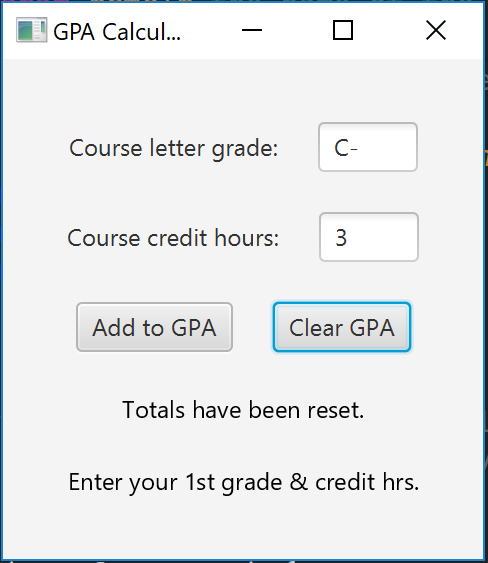
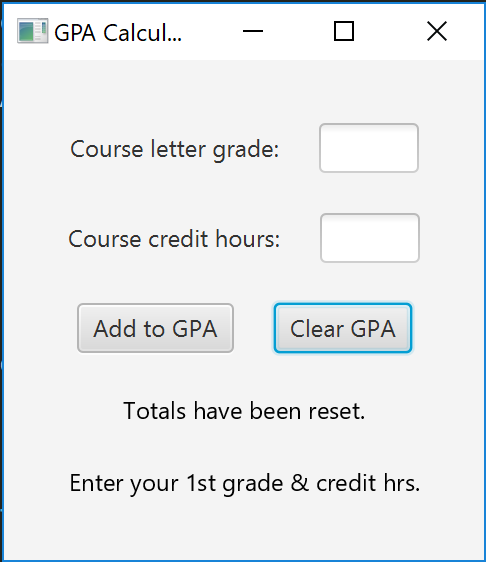
final steps, not important

diff --git a/Ticket/Ticket.java b/Ticket/Ticket.java
@@ -69,14 +69,14 @@ public class Ticket extends Application {
 
 		boardGroupNumber = new Text("Welcome to Flights R Us!");
 		costOfFlight = new Text("Enter your ticket information");
-
+		// the arrangement of the scene
 		FlowPane pane = new FlowPane(passengerNameText, passengerName, checkedBagsText, checkedBags, 
 			drinksText, drinks, economy, firstClass, reset, boardGroupNumber, costOfFlight);
 
 		pane.setAlignment(Pos.CENTER);
 		pane.setHgap(20);
 		pane.setVgap(20);
-
+		// length/width of the scene
 		Scene scene = new Scene(pane, 270, 300);
 
 		primaryStage.setScene(scene);
@@ -89,14 +89,18 @@ public class Ticket extends Application {
 		@param event button press event
 	*/
 	public void processCost(ActionEvent event) {
+		// variables equalling the various text fields
 		nameInput = passengerName.getText();
 		bagsInput = Integer.parseInt(checkedBags.getText());
 		drinksInput = Integer.parseInt(drinks.getText());
-
+		// if the user presses the economy button
 		if(event.getSource() == economy) {
+			// constructs a new economy ticket with the variables above
 			EconomyTicket t1 = new EconomyTicket(nameInput, bagsInput, drinksInput);
+			// and displays the boarding group # and cost of flight
 			boardGroupNumber.setText("Boarding Group Number: " + t1.getBoardingGroupNum());
 			costOfFlight.setText("Total cost of flight: " + format.format(t1.getCost()));
+			// if user presses the first class button
 		} else if(event.getSource() == firstClass) {
 			FirstClassTicket t2 = new FirstClassTicket(nameInput, bagsInput, drinksInput);
 			boardGroupNumber.setText("Boarding Group Number: " + t2.getBoardingGroupNum());
@@ -112,7 +116,7 @@ public class Ticket extends Application {
 	public void reset(ActionEvent event) {
 		boardGroupNumber.setText("Welcome to Flights R Us!");
 		costOfFlight.setText("Enter your ticket information");
-		passengerName.clear();
+		passengerName.clear();	// clears any text inside the field
 		checkedBags.clear();
 		drinks.clear();
 

diff --git a/Ticket/FirstClassTicket.java b/Ticket/FirstClassTicket.java
@@ -33,8 +33,10 @@ public class FirstClassTicket extends Ticket {
 	*/
 	public double getCost() {
 		if(numOfDrinks <= 2) {
+			// first class people have 2 free drinks
 			drinksAfterDiscount = 0;
 		} else if(numOfDrinks > 2) {
+			// if its greater than 2, just remove 2 and calculate the cost w/ that
 			drinksAfterDiscount -= 2;
 		}
 		return firstClassBaseCost + (numOfBags* 30.00) + (drinksAfterDiscount * 2.50);
@@ -44,6 +46,7 @@ public class FirstClassTicket extends Ticket {
 		@return the boarding group number for the person 
 	*/
 	public int getBoardingGroupNum() {
+		// first class tickets are always 1
 		return 1;
 	}
 

diff --git a/Ticket/EconomyTicket.java b/Ticket/EconomyTicket.java
@@ -35,6 +35,7 @@ public class EconomyTicket extends Ticket {
 	*/
 	public double getCost() {
 		if(numOfBags > 1) {
+			// calculates the bag cost for $35/bag if number is >1
 			bagCost = bagCost + ((numOfBags - 1)  * 35.00);
 		}
 		return economyBaseCost + (2.50 * numOfDrinks) + bagCost;
@@ -44,6 +45,7 @@ public class EconomyTicket extends Ticket {
 		@return the boarding group number for the person 
 	*/
 	public int getBoardingGroupNum() {
+		// calculates a random number thats either 2, 3, or 4
 		return rnd.nextInt(4-2 + 1) + 2;
 	}
 

diff --git a/GPA Calculator/GPACalculator.java b/GPA Calculator/GPACalculator.java
@@ -134,6 +134,8 @@ public class GPACalculator extends Application {
 	public void clearGPA(ActionEvent event) {
 		totalGradePoints = 0;
 		totalCreditHours = 0;
+		letterGradeField.clear();
+		creditHoursField.clear();
 		pointsResult.setText("Totals have been reset.");
 		resultGPA.setText("Enter your 1st grade & credit hrs.");
 	}
